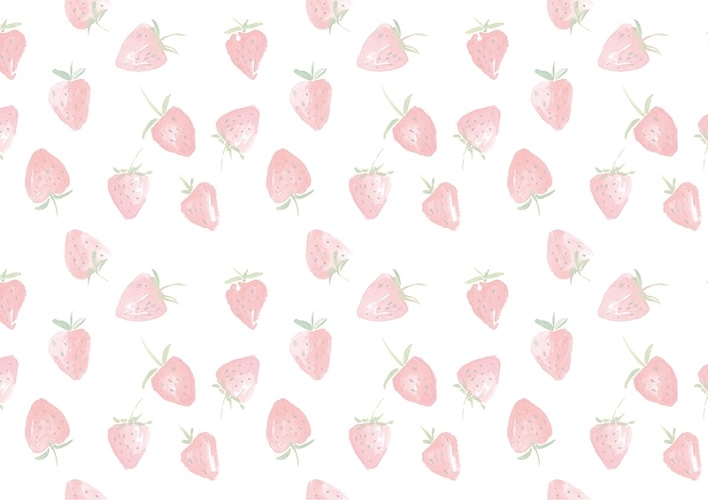
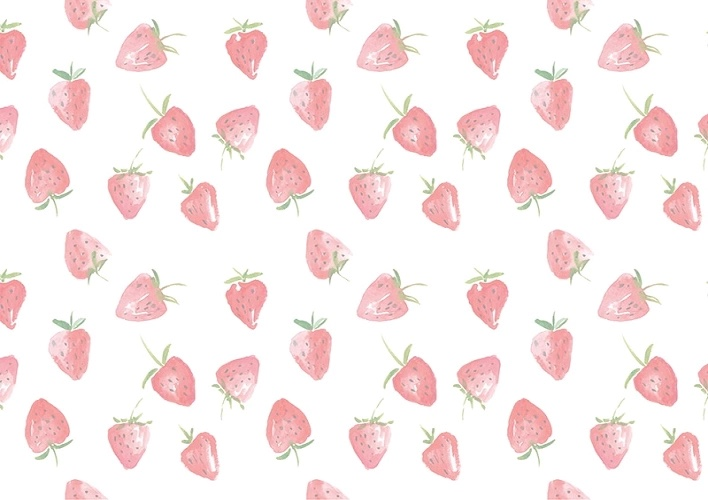
changed the background, font, and a bit of the layout

diff --git a/src/assets/styles/home.css b/src/assets/styles/home.css
@@ -1,12 +1,12 @@
 .name {
     padding-top: 200px;
     text-align: center;
-    font-size: 70px;
+    font-size: 65px;
 }
 
 .bio {
     text-align: center;
-    font-size: 20px;
+    font-size: 30px;
 }
 
 .main-page {
@@ -75,6 +75,7 @@
     justify-content: center;
     align-items: center;
     bottom: 0;
+    font-size: 22px;
 }
 
 @media screen and (max-width: 768px) {
@@ -83,11 +84,11 @@
     }
 
     .bio {
-        font-size: 15px;
+        font-size: 25px;
     }
 
     .tt {
-        width: 80%;
+        width: 89%;
         padding: 10px;
     }
 
@@ -96,7 +97,7 @@
     }
 
     .insta {
-        width: 80%;
+        width: 89%;
         padding: 10px;
     }
 
@@ -105,7 +106,7 @@
     }
 
     .youtube {
-        width: 80%;
+        width: 89%;
         padding: 10px;
     }
     
@@ -114,6 +115,6 @@
     }
 
     .credits {
-        font-size: 12px;
+        font-size: 18px;
     }
 }

diff --git a/src/pages/home.jsx b/src/pages/home.jsx
@@ -6,8 +6,8 @@ import Youtube from '../assets/images/youtube.png'
 export default function Home(){
     return(
         <>
-        <h1 className="name">Grey</h1>
-        <p className="bio">hello fellas</p>
+        <h1 className="name">Hello Fellas</h1>
+        <h3 className="bio">it's grey</h3>
             {/* <div className="text-center">
             <img src= className='img-fluid'></img>
                 </div>  */}

diff --git a/src/App.jsx b/src/App.jsx
@@ -1,6 +1,6 @@
 import { Outlet } from 'react-router-dom'
 import 'bootstrap/dist/css/bootstrap.min.css'
-import strawberryBkg from './assets/images/doodle.jpg'
+import strawberryBkg from './assets/images/strawberry.jpg'
 import './App.css'
 
 function App() {

diff --git a/src/App.css b/src/App.css
@@ -1,5 +1,5 @@
 body, html {
-  font-family: Andale Mono, monospace;
+  font-family: FreeMono, monospace;
   height: 100%;
   margin: 0;
   padding: 0;
